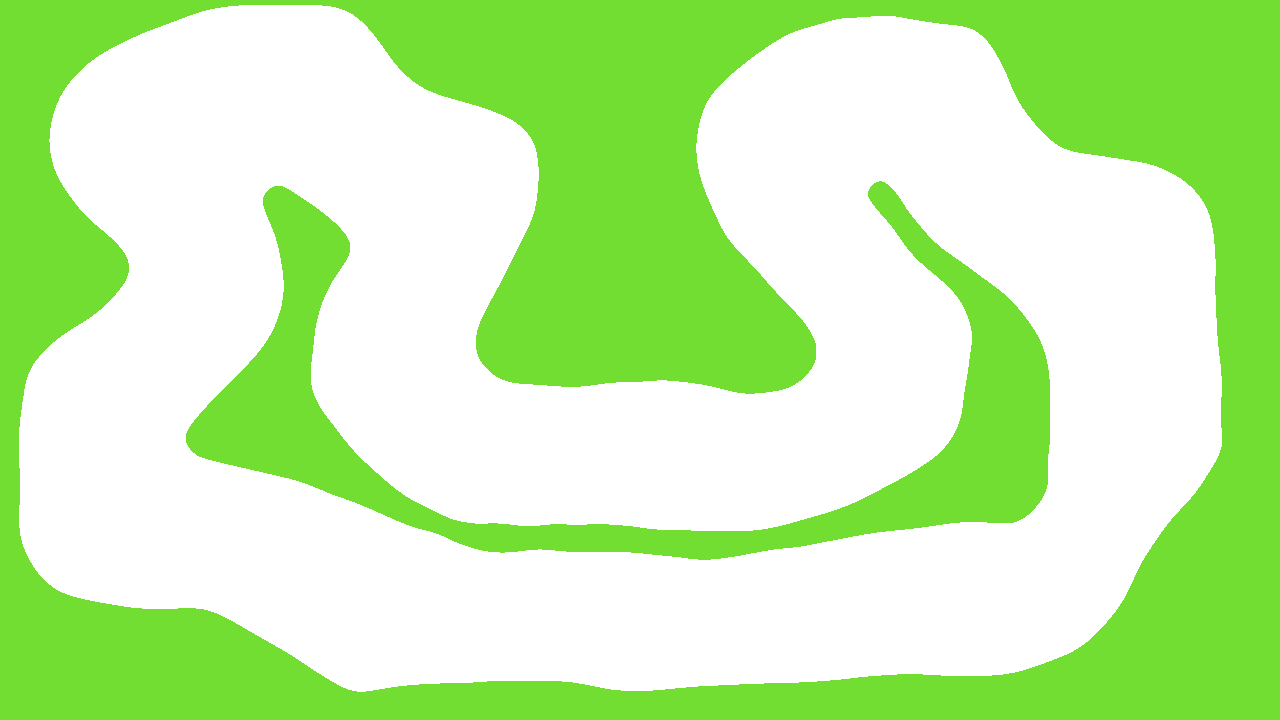
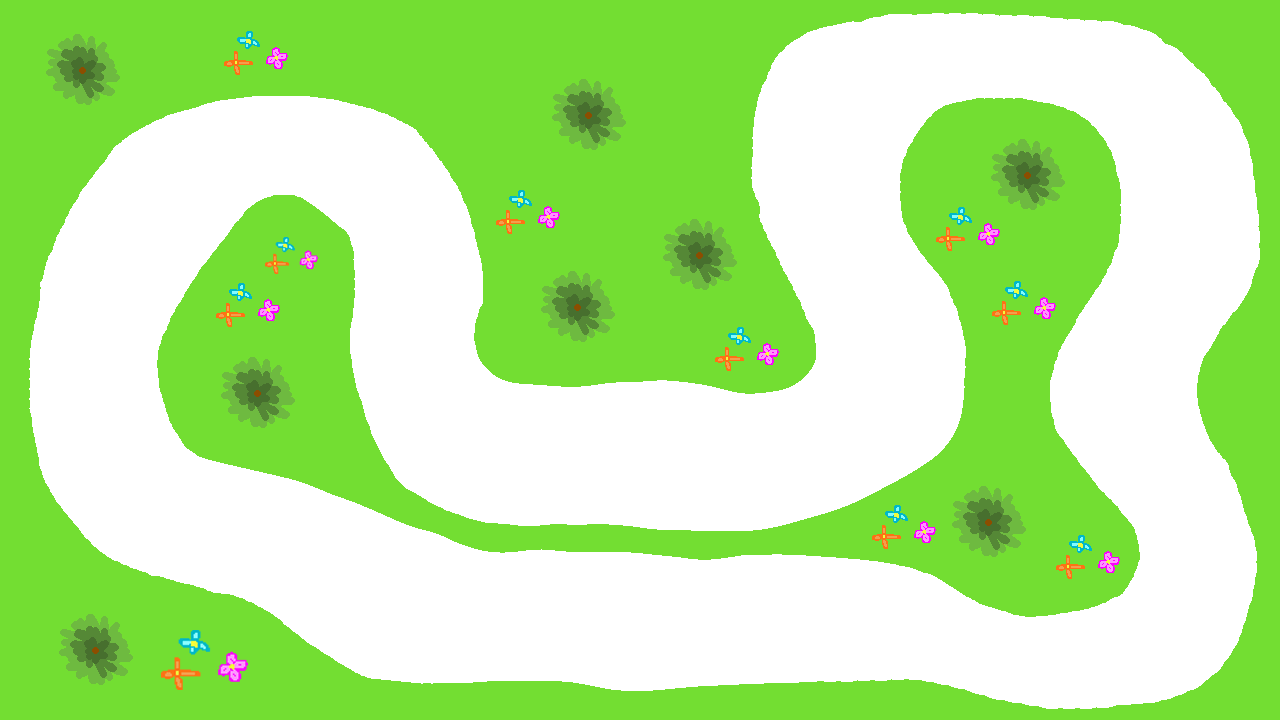
GRAPHICAL REWORK!
Question added:
How many instances?
AI controlled?

diff --git a/BetterNN.py b/BetterNN.py
@@ -7,6 +7,8 @@ hidden_n = 4
 
 output_n = 2
 
+wr = 1.0
+
 
 def sigmoid_matrix(x):
     return 1 / (1 + np.exp(-x))
@@ -25,22 +27,22 @@ def create_inputs(car):
 # Weights 1&2:
 
 def create_weights_1():
-    return np.random.uniform(low=-0.5, high=0.5, size=(input_n, hidden_n))
+    return np.random.uniform(low=-wr, high=wr, size=(input_n, hidden_n))
 
 
 def create_weights_2():
-    return np.random.uniform(low=-0.5, high=0.5, size=(hidden_n, output_n))
+    return np.random.uniform(low=-wr, high=wr, size=(hidden_n, output_n))
 
 
 # ----------------------------------------------------------------------------------
 # Biases 1&2:
 
 def create_bias_1():
-    return np.random.uniform(low=-0.5, high=0.5, size=hidden_n)
+    return np.random.uniform(low=-wr, high=wr, size=hidden_n)
 
 
 def create_bias_2():
-    return np.random.uniform(low=-0.5, high=0.5, size=output_n)
+    return np.random.uniform(low=-wr, high=wr, size=output_n)
 
 
 # ------------------------------------------------------------------------------------

diff --git a/GameLoop.py b/GameLoop.py
@@ -1,15 +1,15 @@
 from MainGame import *
-
+from config import amount as y
 if __name__ == '__main__':
 
-    strecke = pygame.image.load(gA("rennstrecke.png")).convert_alpha()
+    strecke = pygame.image.load(gA("rennstrecke_weg.png")).convert_alpha()
     all_sprites = pygame.sprite.Group()
     rand = Rand()
     ziel = Ziel()
 
     car_list = []
 
-    for n in range(1, 201):
+    for n in range(1, y + 1):
         car = Car(n, rand, ziel)
         car_list.append(car)
 

diff --git a/MainGame.py b/MainGame.py
@@ -46,7 +46,7 @@ class Car(pygame.sprite.Sprite):
         self.ziel = ziel
         self.image = pygame.image.load(gA("car_2.png")).convert_alpha()
         self.original_image = self.image
-        self.position = vec(638, 440)
+        self.position = vec(590, 440)
         self.rect = self.original_image.get_rect(center=self.position)
         self.vel = vec(0, 0)
         self.acceleration = vec(2, 0)

diff --git a/config.py b/config.py
@@ -1,6 +1,12 @@
 from pathlib import Path
 
-ai_control = True
+amount = int(input("How many?"))
+
+ai_control_ask = input("AI controlled?")
+if ai_control_ask == "y" or "Y" or "yes" or "Yes":
+    ai_control = True
+else:
+    ai_control = False
 
 root_path = Path(__file__).parent
 asset_path = root_path.joinpath("assets")
